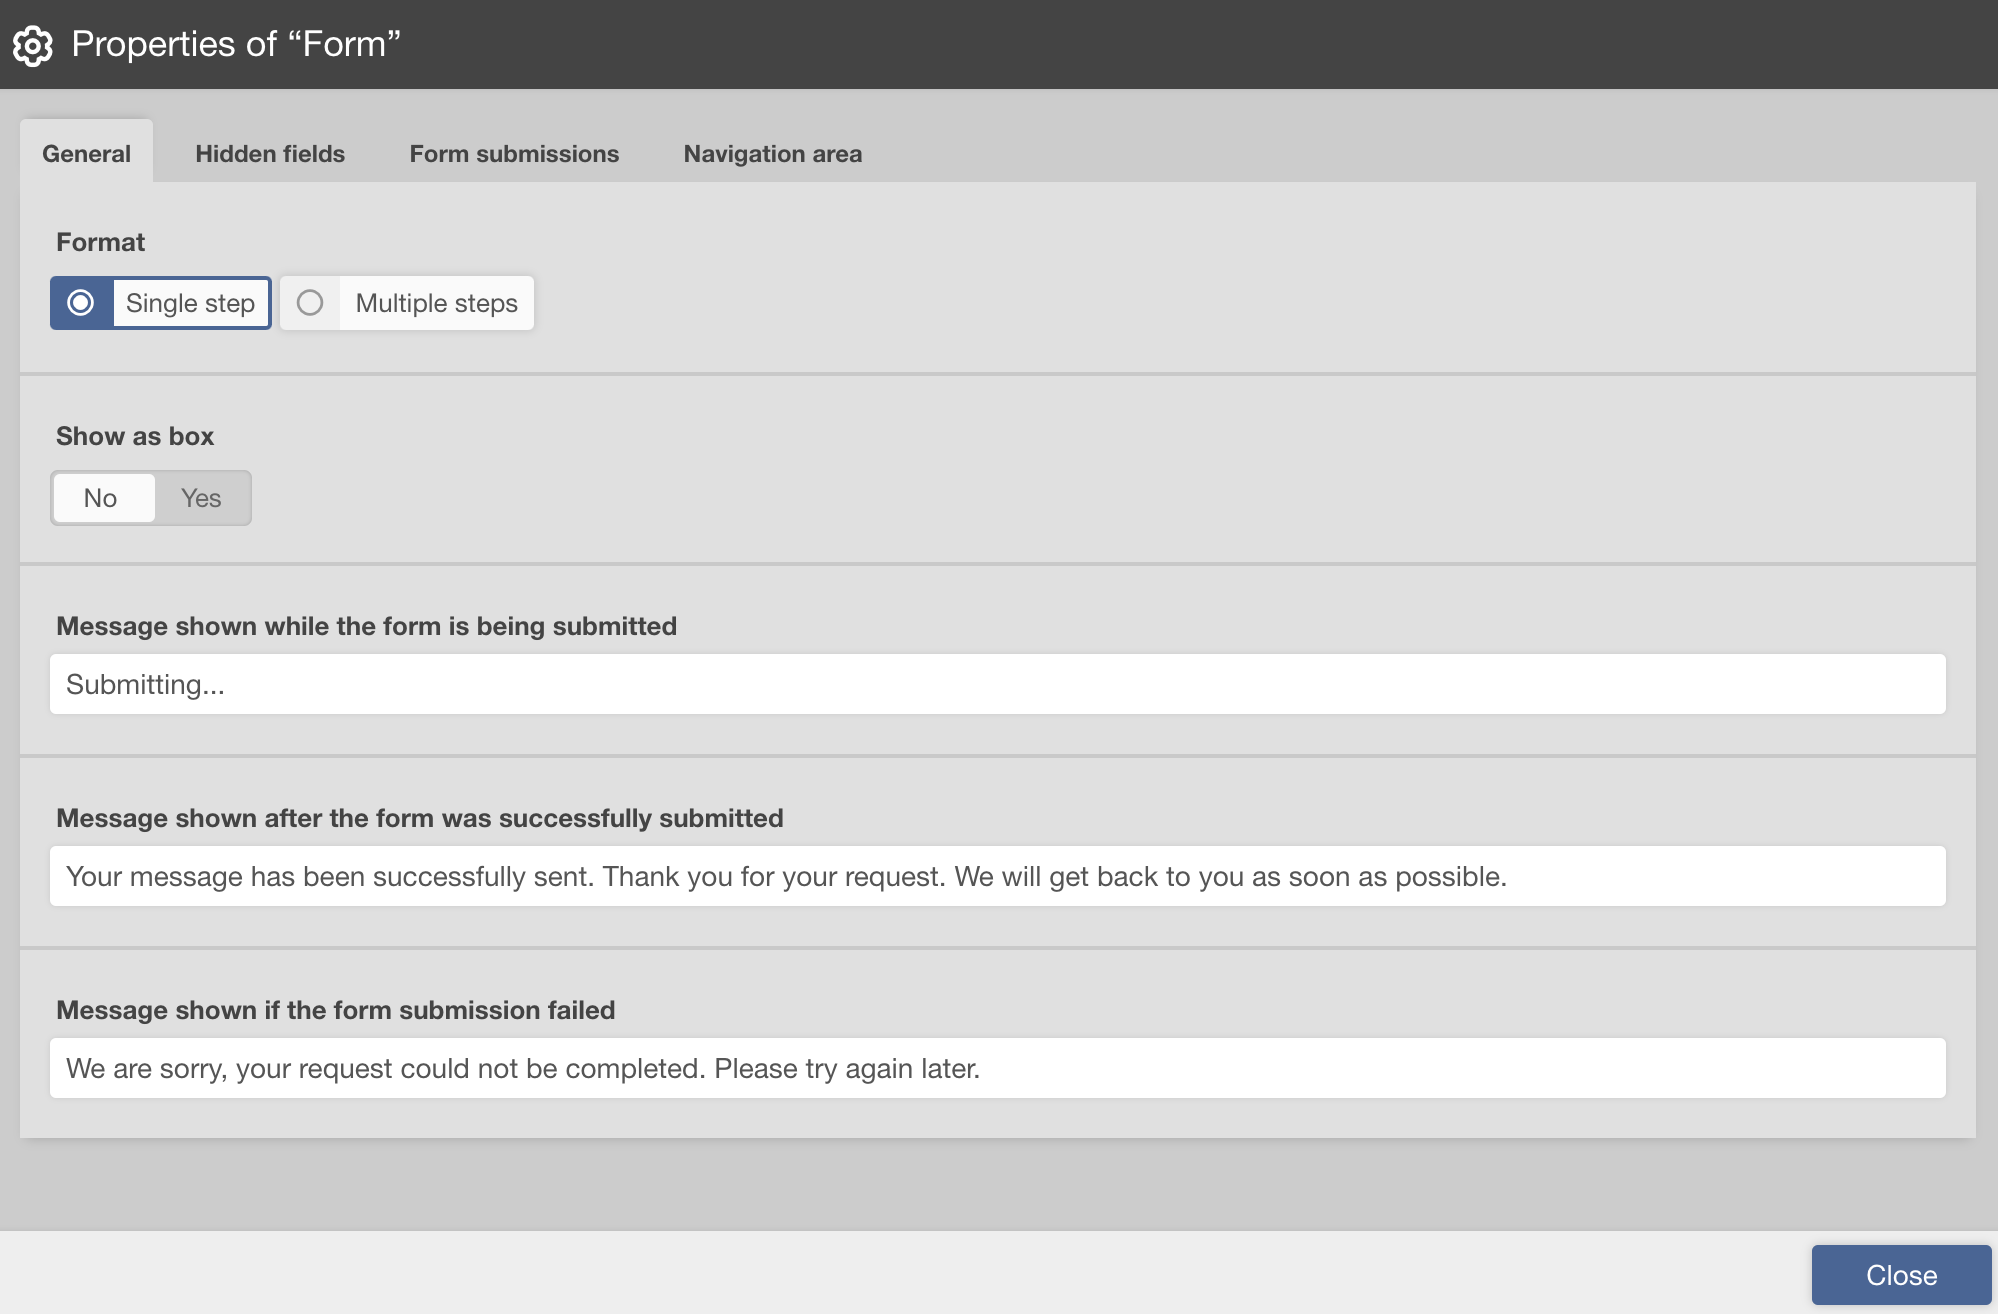
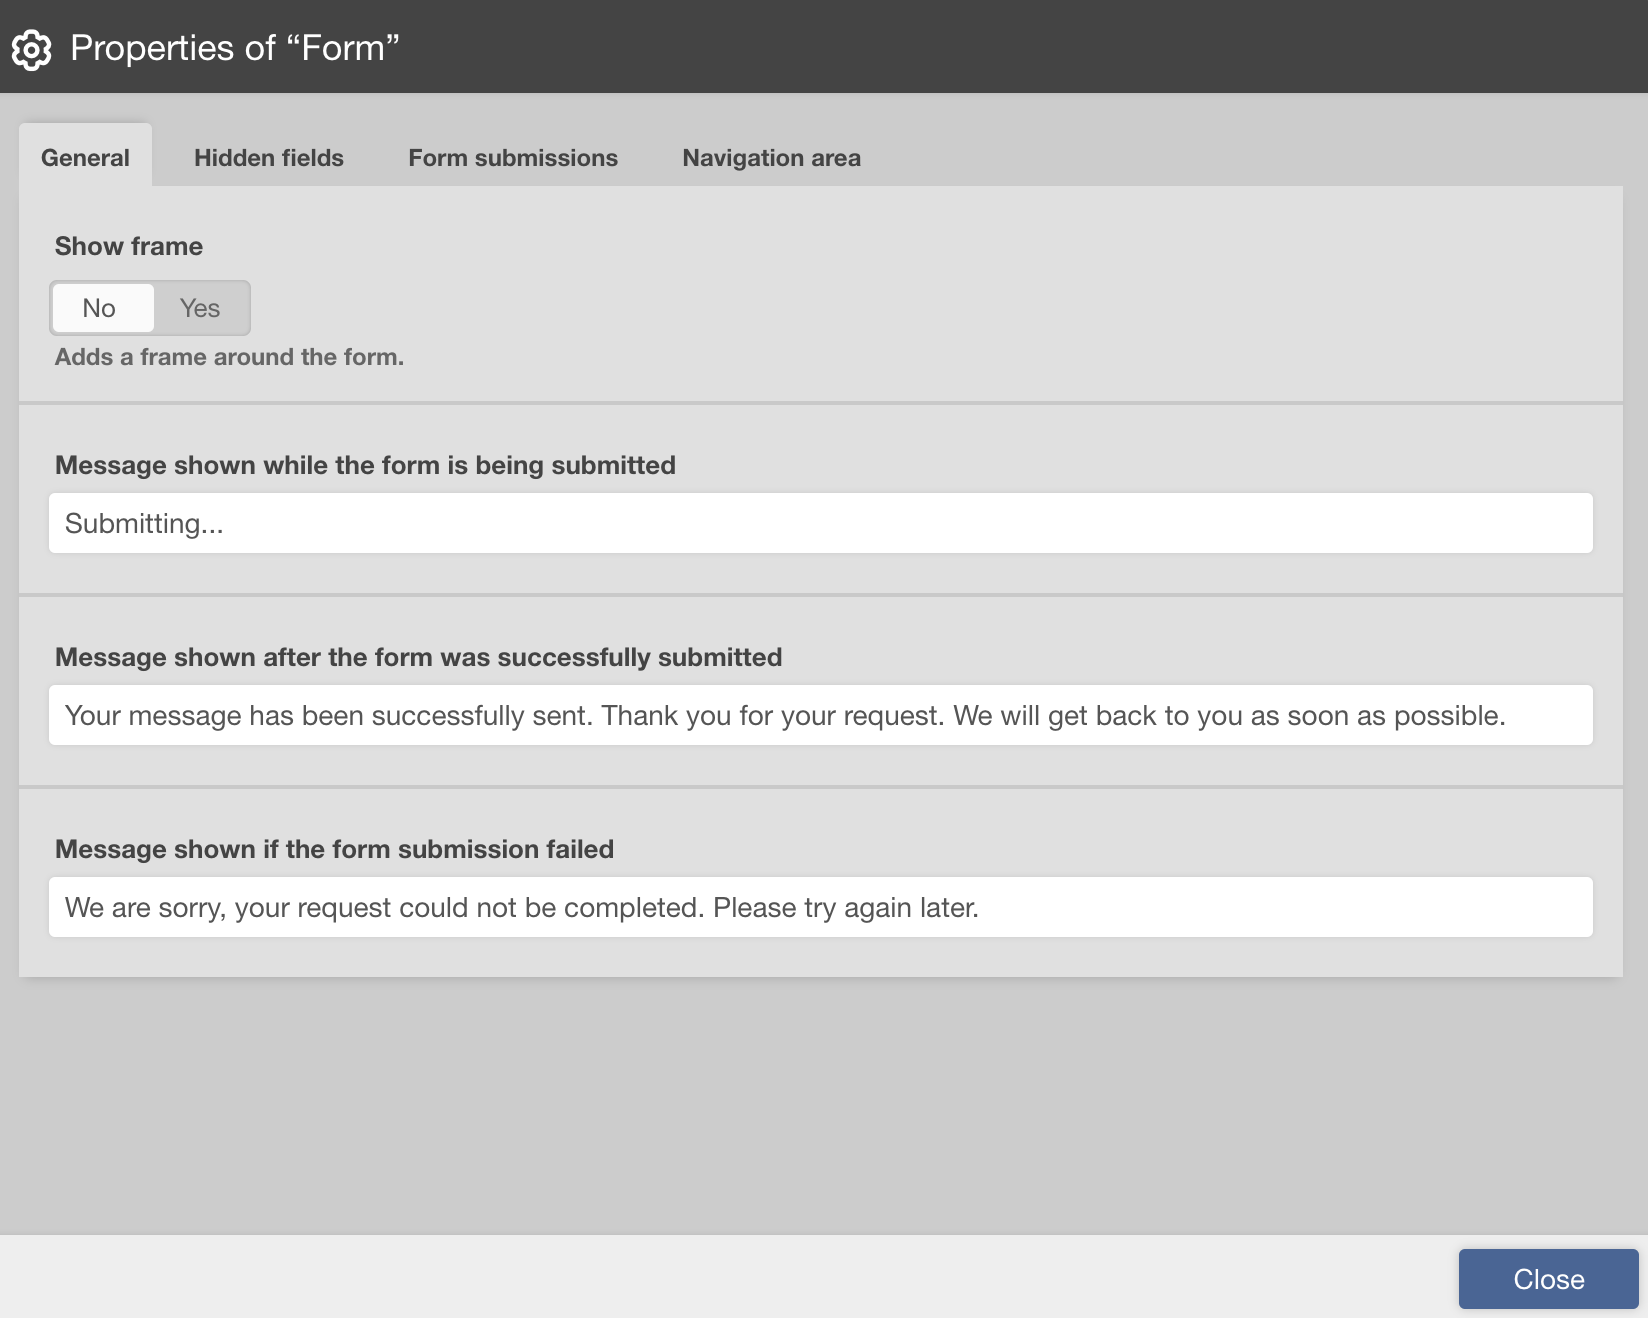
Improve readme

diff --git a/readme.md b/readme.md
@@ -3,7 +3,7 @@
 A set of Scrivito Widgets for building awesome forms
 
 # Features
-- Single-step & multi-step forms
+- Single-step & multiple-step forms
 - Dropdowns
 - Single-select radio buttons
 - Multi-select checkboxes
@@ -57,7 +57,7 @@ You're done! Enjoy building well-designed and cleverly arranged forms!
 
 The following widgets are typically added within the [Form](#form-widget) widget to create well-structured forms:
 
-- [Form Step](#form-step-widget): Configures an individual step within a multi-step form.
+- [Form Step](#form-step-widget): Configures an individual step within the form.
 - [Form Checkbox](#form-checkbox-widget): Adds checkbox input fields.
 - [Form Date](#form-date-widget): Includes date and date-time input fields.
 - [Form Input Field](#form-input-field-widget): Adds customizable input fields.
@@ -83,18 +83,26 @@ The `Form` widget is the main widget for creating and managing forms. To add var
 The `Form` widget has the following properties divided into several tabs:
 
 - "General" tab
-    - Format: Choose between "Single Step" and "Multiple Steps" form formats.
-    - Show as box: Set to display the form as a box.
+    - Show frame: Adds a frame around the form.
     - Submitting message: Message shown while the form is being submitted.
     - Submitted message: Message shown after the form was successfully submitted.
     - Failed message: Message shown if the form submission failed.
-- "Steps" tab (Tab visible if Format is "Multiple Steps")
-    - Steps: Configure form steps for multi-step forms.
+- "Steps" tab (Tab visible if form has "Multiple Steps")
+    - Steps: Configure the form steps.
+- "Review" tab (Tab visible if form has "Multiple Steps", content depends on review selection)
+    - Enable Review: Adds a button to the last step of "Multiple Steps" for reviewing the answers.
+    - Review button text: The text for the review button.
+    - Show steps: Shows the steps in the review dialog.
+    - Include empty answers: Includes empty answers in the review dialog, otherwise only non empty answers are shown.
+    - Show header: Adds a header to the review dialog.
+    - Header title: The title of the review header.
+    - Show footer: Adds a footer with a button for closing the review dialog.
+    - Close button text: The text on the button for closing the review dialog.
 - "Hidden fields" tab
     - Hidden Fields: Customize hidden fields.
 - "Form submission" tab
     - Form ID: This ID identifies the form in Neoletter.
-- "Navigation area" tab (Content depends on Format selection)
+- "Navigation area" tab (Content depends on form type i.e. single-step or multiple-steps)
     - Forward button text: Text for the forward button.
     - Backward button text: Text for the backward button.
     - Submit button text: Text for the submit button.
@@ -105,19 +113,18 @@ The `Form` widget has the following properties divided into several tabs:
 The `Form` Widget has specific validation requirements:
 
 - The widget should not be placed inside another form.
-- For multi-step forms, you must include at least two steps.
 - The form ID must be a 32-character hexadecimal value.
 
 ## Form Step Widget
 <img src="images/form_step_preview.png" width="350" alt="Screenshot">
 
-The `Form Step` widget represents an individual step within a multi-step form. Each step can have its own set of form elements, controls, and content.
+The `Form Step` widget represents an individual step within the form. Each step can have its own set of form elements, controls, and content.
 
 ### Properties
 - Items: Configure the items or content for this step.
 
 ### Validation
-- The step widget must be placed within a Multiple Steps Form. 
+- The step widget must be placed within the form. 
 - Each step must include at least one item. 
 
 ## Form Checkbox Widget
@@ -250,3 +257,142 @@ The `Form Condition` widget is used within the `Form Conditional Container` widg
 
 ### Validation
 - The Form Condition Widget can only be used inside the Form Conditional Container Widget.
+
+# Review Feature
+
+The Review feature allows users to review their answers before submitting a form with multiple steps. It provides a dialog where users can see all their responses at a glance.
+
+### Review Dialog
+
+<img src="images/review_dialog.png" width="350" alt="Screenshot">
+
+### Closing the Dialog
+
+Users can close the review dialog in three ways:
+
+1. **Click Outside:** Clicking anywhere outside the dialog will close it.
+2. **ESC Key:** Users can press the "ESC" key on their keyboard to close the dialog.
+3. **Close Button:** The dialog also includes a close button in the footer for users who prefer to close it manually.
+
+It's important to note that the footer with the close button is not mandatory. Users can easily close the dialog using any of the methods mentioned above.
+
+### Inclusion of Elements
+
+By default, the Review feature checks and includes elements of types "input," "select," and "textarea" when displaying responses in the review. This means that only responses from these elements are shown in the review dialog, allowing users to verify their information.
+
+Custom widgets with hidden inputs can also have their values displayed in the review when the "show-in-review" class is added to the hidden input.
+
+The Review feature is specifically designed for forms with multiple steps, providing users with an opportunity to verify their responses before final submission.
+
+
+# Custom Form Widgets
+
+In addition to the built-in form widgets, you have the flexibility to use custom widgets, allowing you to enhance your forms with unique features and interactions. Custom form widgets can be used for various purposes, such as sliders, tri-state checkboxes, or any specialized input elements that you create as custom widgets and incorporate into your forms.
+
+## Custom Form Widget Validation
+
+When working with custom form widgets, it's important to ensure proper validation to maintain the integrity of your forms. The Scrivito Form Widgets package provides several useful functions for this purpose:
+
+#### `insideFormContainerValidation`
+
+- This function checks if the given widget is placed inside a form. It's crucial to confirm that your custom form widgets are correctly structured within a form container to maintain the expected behavior.
+
+#### `getFormContainer`
+
+- Use this function to find the first form container within your widget hierarchy. It returns the container widget, or `null` if no container is found.
+
+#### `customFieldNameValidation`
+
+- This function checks if the custom field attribute, which must be named "customFieldName," is unique within the widget hierarchy. To meet the requirements for custom field names, it should start with "custom_" and be unique.
+
+For custom widgets that use hidden inputs and want to show the hidden input values in the review, you should add the class "show-in-review" to the hidden input element. This class indicates that the hidden input's value should be displayed in the review.
+
+**Note:** The review feature displays both the question and the answer for each input. To ensure that the question is displayed in the review, you should provide a "label" or "title" attribute within your custom widgets.
+
+By following these guidelines and specifying these validation functions in your custom form widget edit configuration, you can create and integrate custom form widgets seamlessly into your forms, ensuring that they function as intended.
+
+Custom form widgets offer endless possibilities for tailoring your forms to your specific needs, enhancing the user experience and interaction.
+
+## Custom Form Widgets Example
+
+To gain a better understanding of how custom form widgets can be used, let's explore an example. In this case, we'll create a custom slider widget that includes a hidden input, a label, and the "show-in-review" class to display the label and value in the review.
+
+### Creating a Custom Slider Widget
+
+1. Start by creating a new folder named "FormSliderWidget" inside the "Widgets" folder of your Scrivito App.
+
+2. Inside the "FormSliderWidget" folder, create three files:
+
+#### FormSliderWidgetClass.js
+
+```js
+import * as Scrivito from "scrivito";
+
+export const FormSliderWidget = Scrivito.provideWidgetClass(
+  "FormSliderWidget",
+  {
+    attributes: {
+      label: "string",
+      customFieldName: "string",
+    },
+  }
+);
+
+```
+
+#### FormSliderWidgetComponent.js
+
+```js
+import * as React from "react";
+import * as Scrivito from "scrivito";
+
+Scrivito.provideComponent("FormSliderWidget", ({ widget }) => {
+  const [value, setValue] = React.useState(50);
+  return (
+    <div className="row mb-3">
+      <span className="text-super">{widget.get("label")}</span>
+      <input
+        type="range"
+        onChange={(e) => setValue(e.currentTarget.value)}
+        min="0"
+        max="100"
+        value={value}
+      />
+      <input
+        type="hidden"
+        className="show-in-review"
+        name={widget.get("customFieldName")}
+        value={value}
+      ></input>
+    </div>
+  );
+});
+
+```
+
+#### FormSliderWidgetEditingConfig.js
+
+```js
+import * as Scrivito from "scrivito";
+import {
+  customFieldNameValidation,
+  insideFormContainerValidation,
+} from "scrivito-form-widgets";
+
+Scrivito.provideEditingConfig("FormSliderWidget", {
+  title: "Form Slider",
+  attributes: {
+    label: { title: "Label" },
+    customFieldName: { title: "Field name" },
+  },
+  properties: ["label", "customFieldName"],
+  initialContent: {
+    label: "Slide me",
+    customFieldName: "custom_",
+  },
+  validations: [insideFormContainerValidation, customFieldNameValidation],
+});
+
+```
+
+Please note that this example is intended to provide a basic demonstration of creating a custom form widget. It does not include styles or detailed CSS. You can further enhance the appearance and functionality of your custom widgets to match your specific design and usability requirements.
